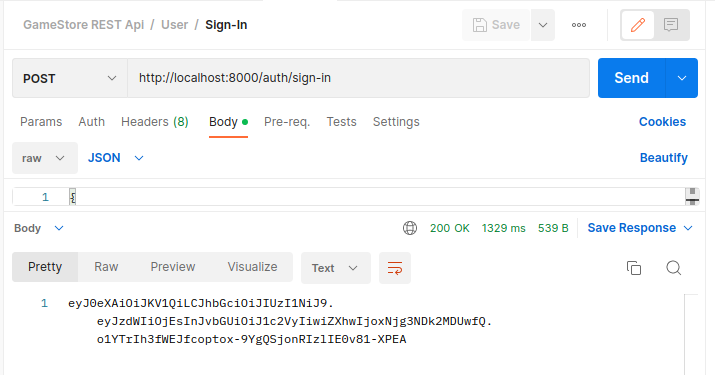
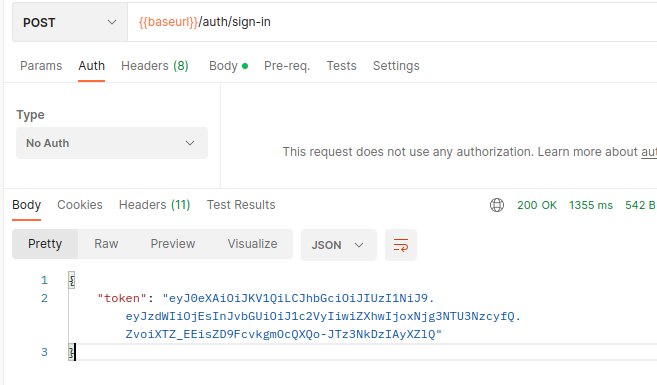
Updated readme document.

diff --git a/handson/gamestore/Readme.md b/handson/gamestore/Readme.md
@@ -108,7 +108,7 @@ Zaten kayıtlı olan olan bir email adresi ile kayıt olmaya çalışıldığın
 
 Kayıtlı bir kullanıcı başarılı şekilde login olduğunda bir JWT token elde etmesi gerekir.
 
-**Adres : localhost:8000/auth/sign-up**
+**Adres : localhost:8000/auth/sign-in**
 
 ```json
 {
@@ -123,7 +123,7 @@ Servisin developers ve games isimli endpoint'lerini kullanabilmek için geçerli
 
 **Adres: localhost:8000/auth/identity**
 
-Sign-in sonrası ele edilen token bilgisini Header'da ekleyerek göndermek gerekir. Token geçerli ise güncel kullanıcıya ait id bilgisinin alınması beklenir.
+Sign-in sonrası ele edilen token bilgisini Header'da ekleyerek göndermek gerekir. Token geçerli ise güncel kullanıcıya ait id bilgisinin alınması beklenir. Örnekte token, baseurl gibi bilgiler Postman collection'a ait variable'lardan gelmektedir.
 
 ![../images/game_store_09.png](../images/game_store_09.png)
 
